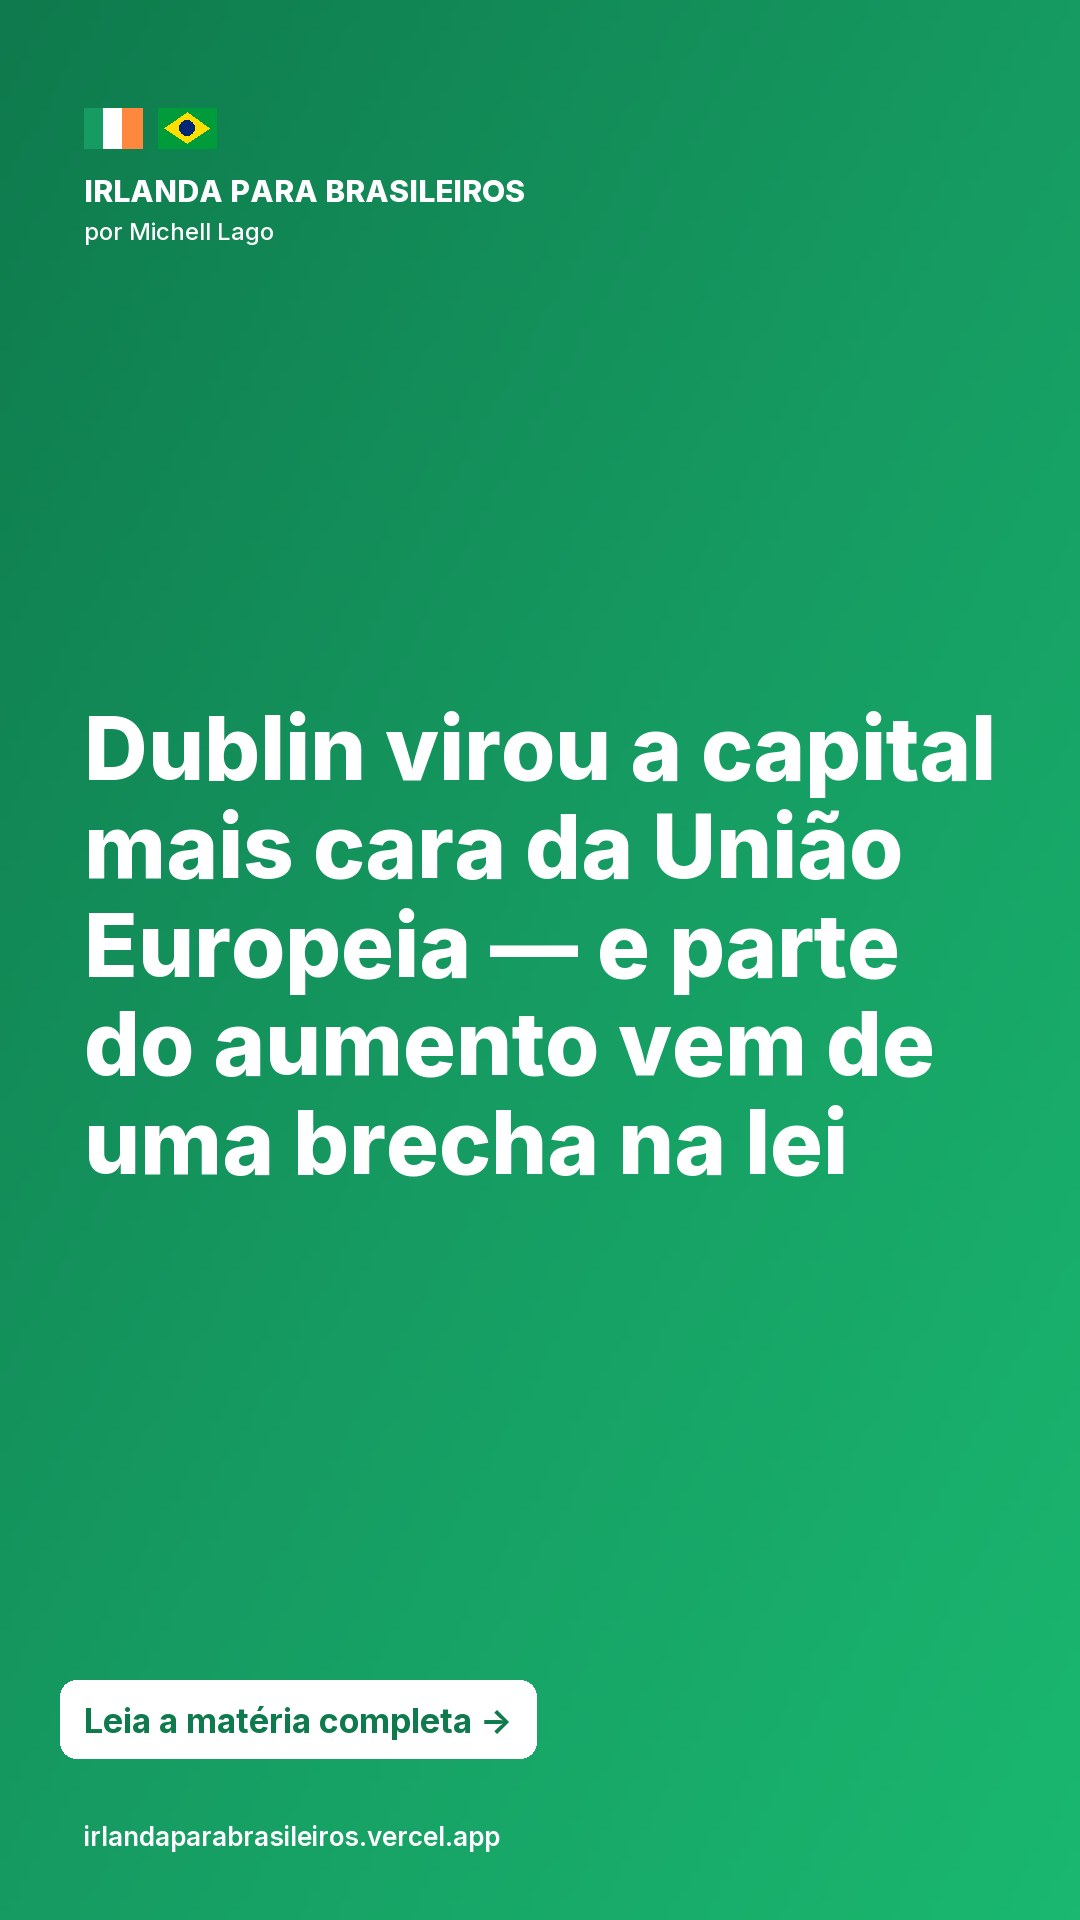
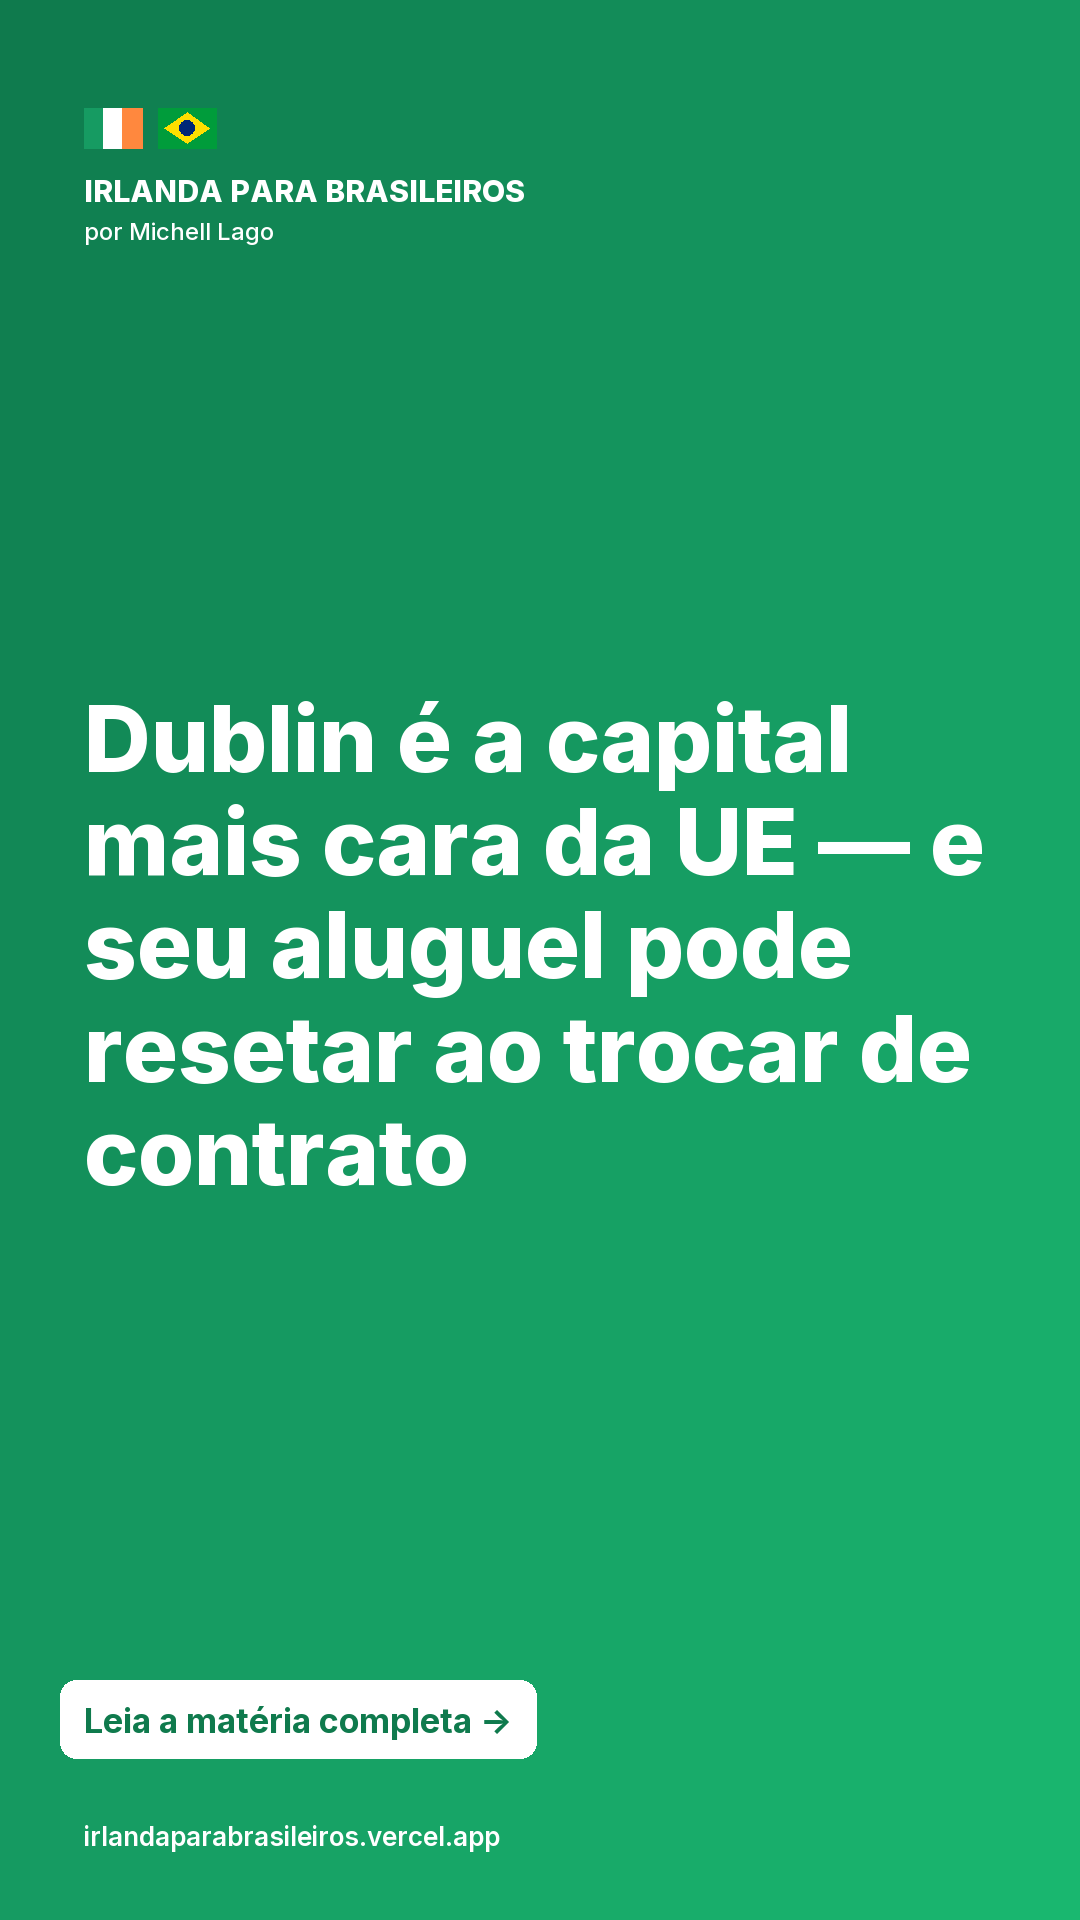
Exige precisão no GANCHO e no corpo em temas de mudança de lei
Michell testou o primeiro story ("brecha na lei") e a informação era
imprecisa — o reset de aluguel entre contratos é a própria regra da
reforma de março/2026, não uma brecha sendo explorada. Adiciona
TESTE DO MECANISMO às regras (nomear a condição real em vez de termo
vago tipo "brecha"/"esquema") e reforça no próprio prompt do GANCHO
que impacto vem de precisão, não de exagero. Regenera o story de hoje
com a manchete corrigida.

Changed region(s): [[0.0611, 0.3438, 0.9167, 0.625]]

diff --git a/scripts/generate_report.py b/scripts/generate_report.py
@@ -208,7 +208,7 @@ Sua resposta deve começar EXATAMENTE com três linhas assim, antes de qualquer 
 
 TITULO: [manchete factual sobre o fato mais relevante da edição, estilo jornalístico — não genérico. Máximo 70 caracteres. Exemplo real: "Aluguel em Dublin sobe 8% e desemprego em tech chega a 5%"]
 DESCRICAO: [resumo do fato mais importante para meta description, 120 a 155 caracteres, frase completa]
-GANCHO: [a mesma notícia do TITULO, reescrita pra gerar curiosidade genuína num story do Instagram — não é o TITULO reformulado com mais adjetivo, é uma forma diferente de abrir a mesma informação (pergunta, contraste, número surpreendente). Precisa ser 100% sustentado pelo fato real, sem exagero nem promessa vazia — a pessoa lê o story e o texto completo bate com o que foi prometido. Máximo 90 caracteres. Exemplo real: "Aluguel em Dublin sobe 8% — e um bairro específico já ficou mais caro que o centro"]
+GANCHO: [a mesma notícia do TITULO, reescrita pra gerar curiosidade genuína e impacto forte num story do Instagram — pode e deve ser chamativo (contraste, pergunta, número chocante, tensão), mas o impacto vem da PRECISÃO do fato real, nunca de exagero ou de termo vago. Se o fato envolve uma regra ou mudança legal, nomeie a condição real (ex.: "só se o inquilino sair por vontade própria") em vez de uma palavra vaga tipo "brecha" — isso deixa o gancho mais forte, não mais fraco, porque cria uma pergunta concreta em vez de uma acusação genérica. Não é o TITULO reformulado com mais adjetivo, é uma forma diferente de abrir a mesma informação. 100% sustentado pelo fato real — a pessoa lê o story e o texto completo bate exatamente com o que foi prometido, sem decepção. Máximo 90 caracteres. Exemplo real: "Seu aluguel pode virar preço de mercado — mas só numa condição bem específica da lei"]
 
 Depois de uma linha em branco, o corpo deve seguir EXATAMENTE este formato markdown (sem repetir título ou data como cabeçalho — isso já fica no frontmatter da página):
 
@@ -258,6 +258,7 @@ REGRAS:
 - CITAÇÃO VERIFICÁVEL: toda fonte citada precisa ser um link markdown de verdade usando a URL exata do campo `url` da notícia fornecida — nunca cite "Fonte: [nome]" sem link. Isso permite que qualquer leitor (ou editor) confira a notícia original com 1 clique, sem precisar confiar cegamente na citação
 - Frases com números que podem gerar ambiguidade (ex.: preço por pessoa vs. preço total, "compartilhar cama" vs. "compartilhar quarto") precisam ser reescritas de um jeito que não deixe dúvida de leitura na primeira passada — releia cada bullet como se fosse a primeira vez lendo, sem o contexto de quem escreveu
 - Se um anúncio/vaga/oferta citado tiver restrição de elegibilidade relevante (ex.: "só para mulheres", "só para EU/EEA", "só CV em inglês"), inclua isso entre parênteses — evita que o leitor perca tempo com algo que não se aplica a ele
+- TESTE DO MECANISMO: quando a notícia envolver mudança de lei, regulamento ou política (reforma de aluguel, novo imposto, nova regra de visto etc.), descreva o mecanismo real e a condição exata em que ele se aplica, em vez de um termo vago tipo "brecha", "esquema" ou "brecha na lei" — mesmo que a regra seja controversa ou beneficie desproporcionalmente um lado, ela é pública e legal, não uma falha escondida sendo explorada. Só use "brecha"/"lacuna" se a notícia citada afirmar explicitamente que é uma prática irregular, não-intencional pelo legislador, ou sob investigação/contestação como abusiva — e nesse caso, atribua a alegação à fonte ("segundo [veículo/autoridade]"), não como fato direto
 - A saudação de abertura deve refletir o conteúdo real da edição (não prometer "Irlanda e mundo" se só houver uma das duas seções) — use a variação certa entre as opções descritas no formato acima"""
 
 
